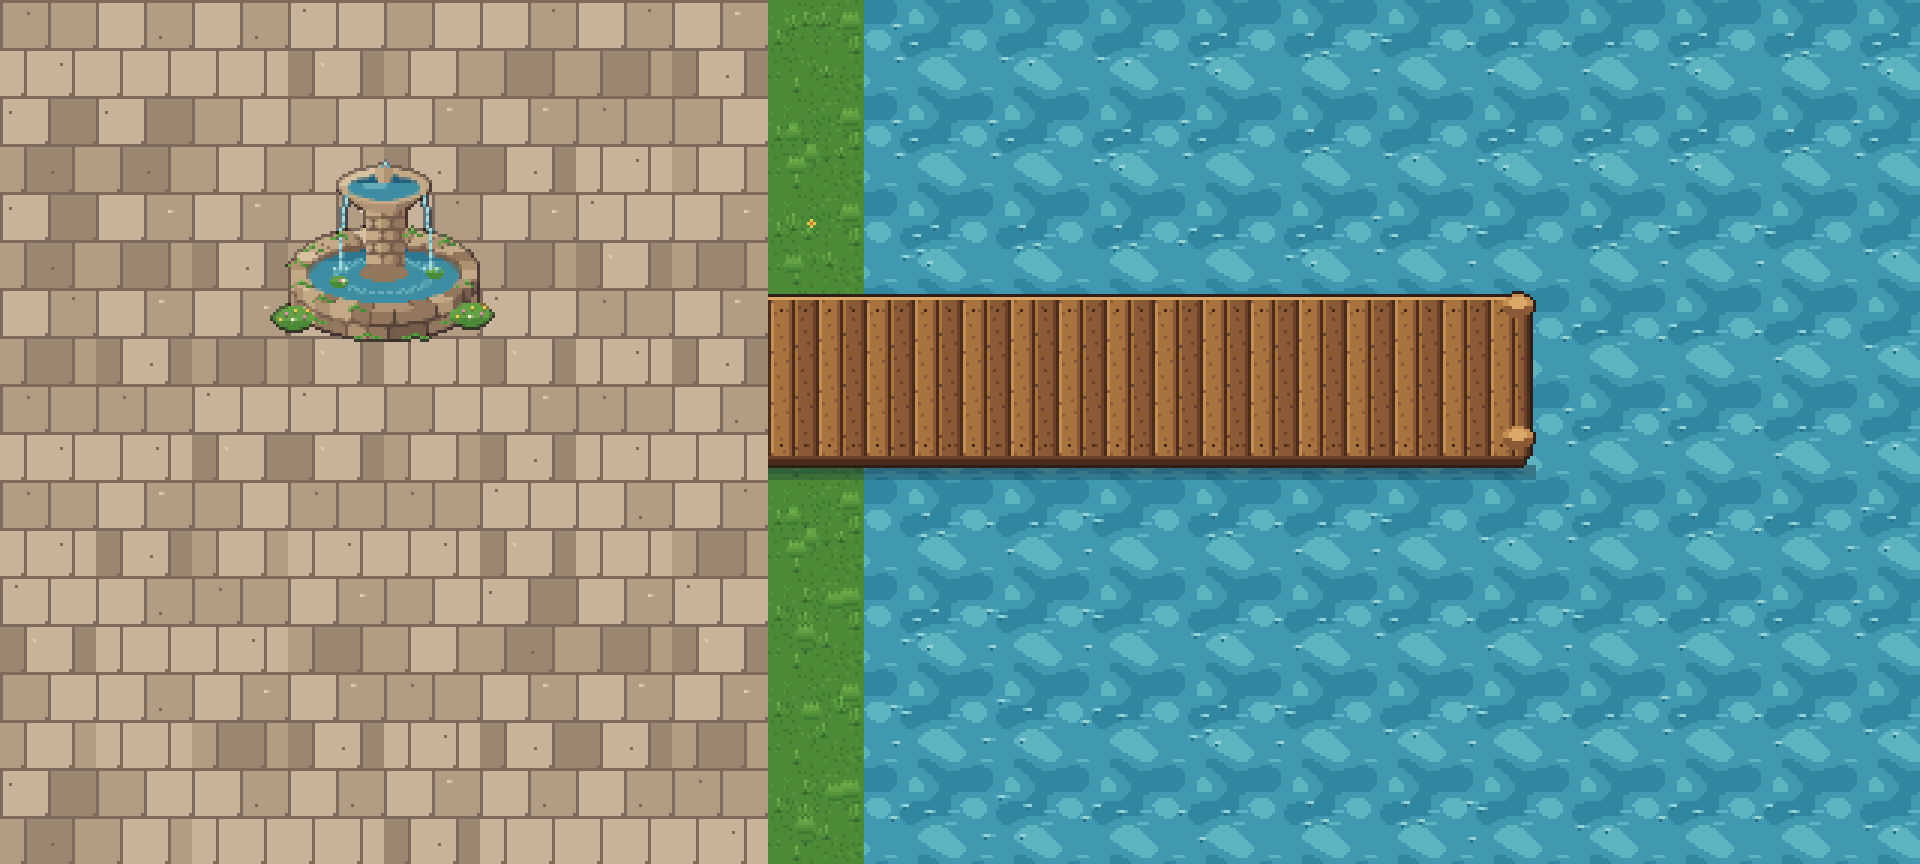
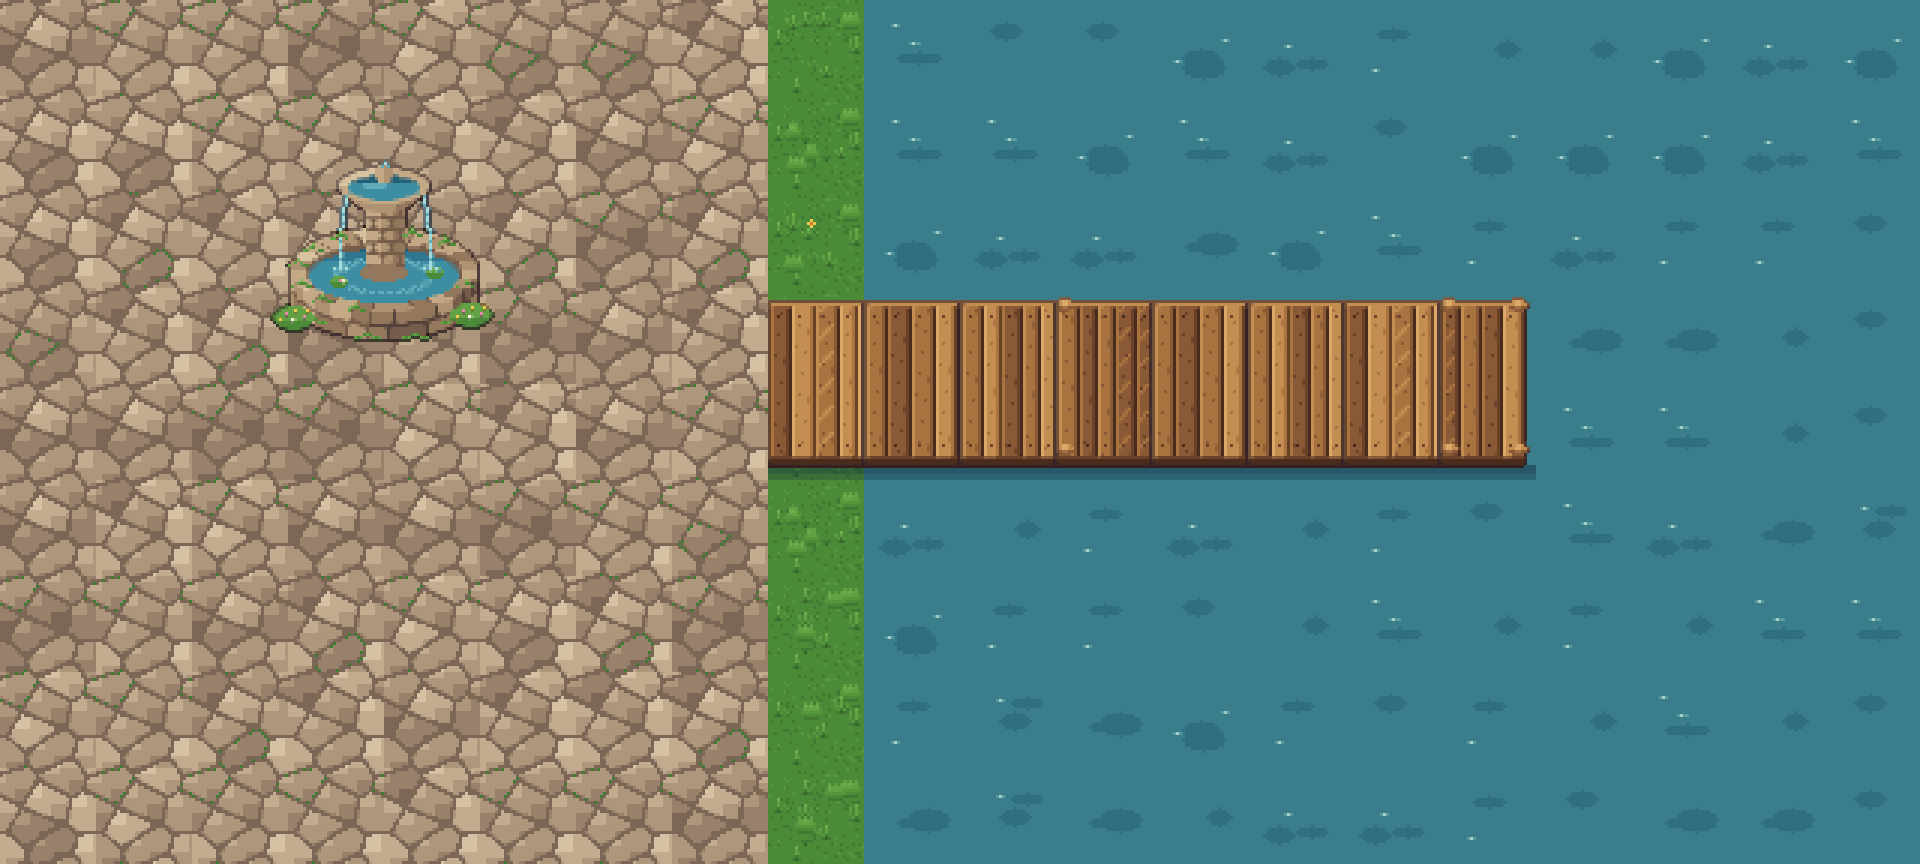
Cozy pass: cobblestone paving, calmer water, varied pier planks and a post piece
Claude-Session: https://claude.ai/code/session_01UfpJh2yGrDMaNfv5mQuco1

diff --git a/tools/pixel-art/ground.py b/tools/pixel-art/ground.py
@@ -16,8 +16,8 @@ G = [hx(c) for c in ('#2a4d24', '#36652d', '#427a34', '#4b8a37', '#56973d', '#62
 D = [hx(c) for c in ('#5a3a22', '#74502f', '#8a6039', '#9a6c42', '#a6784b', '#b48654', '#c1935e')]
 SN = [hx(c) for c in ('#7f97b0', '#a3b9cd', '#c4d6e4', '#dfeaf2', '#f4f9fc', '#ffffff')]   # kar: mavimsi gölgeler, beyaz tepe
 SAND = [hx(c) for c in ('#b08a58', '#c9a46c', '#dcbd84', '#e8cc96', '#f1dba8', '#f9ecc6')]
-WATER = [hx(c) for c in ('#1c566f', '#276f89', '#3186a0', '#4099ae', '#5db3bf', '#93d3d6')]
-PAVE = [hx(c) for c in ('#5e4d45', '#7e6a5c', '#9b8672', '#b39c84', '#c8b39a', '#dccbb2')]
+WATER = [hx(c) for c in ('#1f4f63', '#285f72', '#2f6f80', '#3a7d8b', '#5a9ba2', '#9fcfc8')]   # cozy: daha koyu, az doygun
+PAVE = [hx(c) for c in ('#5a4a40', '#7c6656', '#98806a', '#ae967c', '#c3ab8f', '#d6c1a4')]
 STONE = [hx(c) for c in ('#4d4a48', '#7a746c', '#a59d90', '#cbc3b3')]
 FLOWERS = [(hx('#f4eed2'), hx('#f2c94c')), (hx('#f2c94c'), hx('#c9772c')), (hx('#e58aa6'), hx('#f6e7a8')), (hx('#a99be8'), hx('#f6e7a8'))]
 
@@ -243,41 +243,56 @@ def sand_tile(variant):
 
 # ---------------- su ----------------
 def water_tile(variant):
-    t = Tex()
+    """Sakin su: düz zemin, sadece iç kısımda çeşide göre değişen yumuşak leke ve seyrek parıltı (kenar bandı düz, dikiş görünmez)."""
+    t = Tex(); r = random.Random(1000 + variant)
     for y in range(T):
-        for x in range(T):
-            n = pnoise(x, y, 51, ((2, 1.0), (3, 0.8)))
-            i = 2 if n < -0.35 else 4 if n > 0.5 else 3
-            t.put(x, y, WATER[i])
-    r0 = random.Random(900)
-    for x, y in scatter(r0, 4, 0, 0, True):
-        for k in range(4): t.put(x + k, y, WATER[4])
-    r = random.Random(1000 + variant)
-    for i, (x, y) in enumerate(scatter(r, 3 + variant % 3, 7, 25, False)):
-        for k in range(r.choice((3, 4, 5))): t.put(x + k, y, WATER[5] if k in (1, 2) else WATER[4])
-        t.put(x + 1, y + 1, WATER[1])
+        for x in range(T): t.put(x, y, WATER[3])
+    for _ in range(1 + variant % 2):                       # iç kısımda yumuşak koyu leke
+        cx_, cy_ = r.randint(10, 22), r.randint(10, 22); rx_, ry_ = r.randint(4, 7), r.randint(2, 4)
+        for y in range(cy_ - ry_, cy_ + ry_ + 1):
+            for x in range(cx_ - rx_, cx_ + rx_ + 1):
+                if ((x - cx_) / rx_) ** 2 + ((y - cy_) / ry_) ** 2 <= 1: t.put(x, y, WATER[2])
+    for i, (x, y) in enumerate(scatter(r, variant % 3, 6, 24, False)):
+        for k in range(r.choice((3, 4))): t.put(x + k, y, WATER[5] if k == 1 else WATER[4])
     return t
 
 # ---------------- taş döşeme ----------------
+COBBLES = None
+def _cobble_layout():
+    """32 px'te kendini tekrar eden düzensiz parke taşı yerleşimi (periyodik Voronoi). Bütün çeşitlerde aynı: kenarlar tutar."""
+    r = random.Random(1234); pts = []
+    while len(pts) < 7:
+        p = (r.uniform(0, T), r.uniform(0, T))
+        if all(min(abs(p[0] - q[0]), T - abs(p[0] - q[0])) ** 2 + min(abs(p[1] - q[1]), T - abs(p[1] - q[1])) ** 2 > 75 for q in pts): pts.append(p)
+    cell = {}
+    for y in range(T):
+        for x in range(T):
+            ds = []
+            for i, (px_, py_) in enumerate(pts):
+                dx = min(abs(x + .5 - px_), T - abs(x + .5 - px_)); dy = min(abs(y + .5 - py_), T - abs(y + .5 - py_))
+                sx = (x + .5 - px_); sx = sx - T if sx > T / 2 else sx + T if sx < -T / 2 else sx
+                sy = (y + .5 - py_); sy = sy - T if sy > T / 2 else sy + T if sy < -T / 2 else sy
+                ds.append((math.hypot(dx, dy * 1.15), i, sx, sy))
+            ds.sort()
+            cell[(x, y)] = (ds[0][1], ds[1][0] - ds[0][0], ds[0][2], ds[0][3])
+    return cell
+
 def pave_tile(variant):
+    """Yuvarlak, düzensiz parke taşları; aralarda toprak ve yer yer yosun. Işık sol üstten."""
+    global COBBLES
+    if COBBLES is None: COBBLES = _cobble_layout()
     t = Tex(); r = random.Random(1100 + variant)
-    BH, BW = 16, 16
-    for row in range(T // BH):
-        off = (row % 2) * (BW // 2)
-        for col in range(T // BW + 1):
-            x0 = col * BW + off; y0 = row * BH
-            shade = r.choice((2, 3, 3, 4, 4))
-            for y in range(BH):
-                for x in range(BW):
-                    c = PAVE[shade]
-                    if (x in (0, BW - 1) and y in (0, BH - 1)): c = PAVE[1]
-                    elif y == 0 or x == 0: c = PAVE[1]          # harç: sadece koyu çizgi, kabartma yok (zeminle aynı seviye)
-                    t.put(x0 + x, y0 + y, c)
-            if r.random() < 0.25:
-                t.put(x0 + r.randrange(3, BW - 3), y0 + r.randrange(2, BH - 2), PAVE[1])
-            if variant % 2 and r.random() < 0.2:
-                px, py = x0 + r.randrange(3, BW - 4), y0 + r.randrange(2, BH - 2)
-                t.put(px, py, PAVE[5]); t.put(px + 1, py, PAVE[4])
+    shade = [r.choice((2, 3, 3, 4)) for _ in range(7)]
+    moss = {r.randrange(7) for _ in range(variant % 3)}
+    for (x, y), (i, gap, sx, sy) in COBBLES.items():
+        if gap < 1.3:
+            c = G[2] if i in moss and (x + y) % 2 else PAVE[1]            # derz: toprak, bazen yosun
+        else:
+            b = shade[i]
+            if sx < -1.5 and sy < -1: b += 1                          # sol üst kenar ışık alır
+            if sx > 1.5 and sy > 1 or gap < 2.2 and sy > 0: b -= 1     # sağ alt gölge
+            c = PAVE[max(1, min(5, b))]
+        t.put(x, y, c)
     return t
 
 NV = 8
@@ -319,7 +334,7 @@ def wang_tile(lower, upper, nw, ne, sw, se, vi=0):
     """Köşe bitleri: 1 = lower. Upper dokusu lower'ın üstüne taşar; kenarda gölge ve açık uç."""
     gi = di = (vi * 3) % NV
     lo, up = MAT[lower], MAT[upper]
-    amp = {'snow': 0.6, 'pave': 0.07, 'sand': 0.5}.get(upper, 0.42)      # kar kenarı daha dalgalı, düz çizgi gibi kesilmesin
+    amp = {'snow': 0.6, 'pave': 0.3, 'sand': 0.5}.get(upper, 0.42)      # kar kenarı daha dalgalı, düz çizgi gibi kesilmesin
     d, g = lo['tiles'][di].load(), up['tiles'][gi].load()
     LP, UP = lo['pal'], up['pal']
     im = Image.new('RGBA', (T, T)); px = im.load()

diff --git a/tools/pixel-art/fountain_pier.py b/tools/pixel-art/fountain_pier.py
@@ -248,41 +248,46 @@ def fountain_cozy():
     return c.im
 
 def pier_plank_rows(c, y0, y1, seed):
-    """Dikey tahtalar (iskelenin ekseni yatay, tahtalar karşıya dizili)."""
-    r = random.Random(seed)
-    for x in range(c.w):
-        k = x % 8
-        for y in range(y0, y1):
-            base = 3 if (x // 8) % 2 == 0 else 2
-            col = WOOD[base]
-            if k == 0: col = WOOD[0]               # tahta arası boşluk
-            elif k == 1: col = WOOD[base + 1]        # açık kenar
-            elif k == 7: col = WOOD[base - 1]
-            if (x * 5 + y * 3) % 17 == 0 and k not in (0,): col = WOOD[base - 1]   # damar
-            c.put(x, y, col)
-    # çivi
-    for x in range(4, c.w, 8):
-        for y in (y0 + 3, y1 - 4): c.put(x, y, WOOD[0])
+    """Tahtalar iskeleye dik dizili; genişlik ve ton tahta tahta değişir, aralarında boşluk, uçlarda çivi."""
+    r = random.Random(seed); x = 0
+    while x < c.w:
+        w = r.choice((6, 7, 7, 8)); base = r.choice((2, 3, 3, 4)); worn = r.random() < .25
+        for k in range(w):
+            for y in range(y0, y1):
+                col = WOOD[base]
+                if k == 0: col = WOOD[0]
+                elif k == 1: col = WOOD[min(5, base + 1)]
+                elif k == w - 1: col = WOOD[base - 1]
+                elif (y * 7 + (x + k) * 3 + seed) % 23 == 0: col = WOOD[base - 1]          # damar
+                if worn and (y + k) % 9 == 0 and 1 < k < w - 1: col = WOOD[min(5, base + 1)]
+                if x + k < c.w: c.put(x + k, y, col)
+        if x + 3 < c.w:
+            c.put(x + 3, y0 + 3, WOOD[0]); c.put(x + 3, y1 - 4, WOOD[0])
+        x += w
 
-def pier_mid():
+def pier_mid(seed=1, posts=False):
     c = Canvas(32, 64)
-    pier_plank_rows(c, 4, 56, 1)
-    for x in range(32):                          # üst / alt kiriş kenarı (kalınlık)
-        c.put(x, 56, WOOD[1]); c.put(x, 57, WOOD[0]); c.put(x, 58, WOOD[0])
-        c.put(x, 3, WOOD[5]); 
+    pier_plank_rows(c, 6, 56, seed)
+    for x in range(32):
+        c.put(x, 56, WOOD[1]); c.put(x, 57, WOOD[0]); c.put(x, 58, WOOD[0])            # ön kalınlık
+        c.put(x, 5, WOOD[4])
+    for (px_, py_) in (((2, 6), (2, 54)) if posts else ()):                               # kazık başları (sadece kazıklı parçada)
+        c.ellipse(px_ + 1, py_, 3, 2.5, lambda x, y, py_=py_: WOOD[4] if y < py_ else WOOD[2])
+        c.ellipse(px_ + 1, py_ - 1, 1.5, 1, lambda x, y: WOOD[5])
     return c.im
 
 def pier_end():
     """Uç parça: sağ ucu kapalı, iki kazık."""
     c = Canvas(32, 64)
-    for x in range(0, 28):
-        for y in range(4, 56):
-            c.put(x, y, pier_mid_cache.getpixel((x, y)))
-    for y in range(4, 56): c.put(28, y, WOOD[1]); c.put(29, y, WOOD[0])
-    for x in range(28): c.put(x, 56, WOOD[1]); c.put(x, 57, WOOD[0]); c.put(x, 58, WOOD[0]); c.put(x, 3, WOOD[5])
-    for py in (6, 50):                           # kazıklar
-        c.ellipse(26, py, 5, 4, lambda x, y: WOOD[4] if y < py else WOOD[2])
-        c.ellipse(26, py - 1, 3, 2, lambda x, y: WOOD[5])
+    pier_plank_rows(c, 6, 56, 2)
+    for y in range(64):
+        for x in range(28, 32): c.put(x, y, (0, 0, 0, 0))
+    for y in range(6, 59): c.put(27, y, WOOD[1])
+    for x in range(28):
+        c.put(x, 56, WOOD[1]); c.put(x, 57, WOOD[0]); c.put(x, 58, WOOD[0]); c.put(x, 5, WOOD[4])
+    for (px_, py_) in ((2, 6), (2, 54), (25, 6), (25, 54)):
+        c.ellipse(px_ + 1, py_, 3, 2.5, lambda x, y, py_=py_: WOOD[4] if y < py_ else WOOD[2])
+        c.ellipse(px_ + 1, py_ - 1, 1.5, 1, lambda x, y: WOOD[5])
     return c.im
 
 def shadow(im):
@@ -293,12 +298,15 @@ def shadow(im):
     return c.im
 
 def with_outline(im):
-    c = Canvas(*im.size); c.im.paste(im); c.px = c.im.load(); c.outline(); return c.im
+    c = Canvas(*im.size); c.im.paste(im); c.px = c.im.load(); c.outline(); return soften(c.im)
 
 if __name__ == '__main__':
     f = fountain(); f.save(os.path.join(OUT, 'fountain_ornate.png'))
     f = fountain_cozy(); f.save(os.path.join(OUT, 'fountain.png'))
     pier_mid_cache = pier_mid(); pm = shadow(with_outline(pier_mid_cache)); pm.save(os.path.join(OUT, 'pier_mid.png'))
+    pms = [shadow(with_outline(pier_mid(sd))) for sd in (1, 3, 5)]
+    for i, im_ in enumerate(pms[1:], 2): im_.save(os.path.join(OUT, f'pier_mid_{i}.png'))
+    pp = shadow(with_outline(pier_mid(7, posts=True))); pp.save(os.path.join(OUT, 'pier_post.png'))
     pe = shadow(with_outline(pier_end())); pe.save(os.path.join(OUT, 'pier_end.png'))
     # önizleme
     import importlib.util
@@ -311,7 +319,7 @@ if __name__ == '__main__':
             else: t = g.WATER_T[r.randrange(8)]
             sc.paste(t, (tx * T, ty * T))
     sc.alpha_composite(f, (3 * T - 8, 1 * T))
-    for i in range(7): sc.alpha_composite(pm, ((8 + i) * T, 3 * T))
+    for i in range(7): sc.alpha_composite(pp if i == 3 else pms[i % 3], ((8 + i) * T, 3 * T))
     sc.alpha_composite(pe, (15 * T, 3 * T))
     sc.resize((sc.width * 3, sc.height * 3), Image.NEAREST).save(os.path.join(OUT, 'onizleme.png'))
     print('ok')
